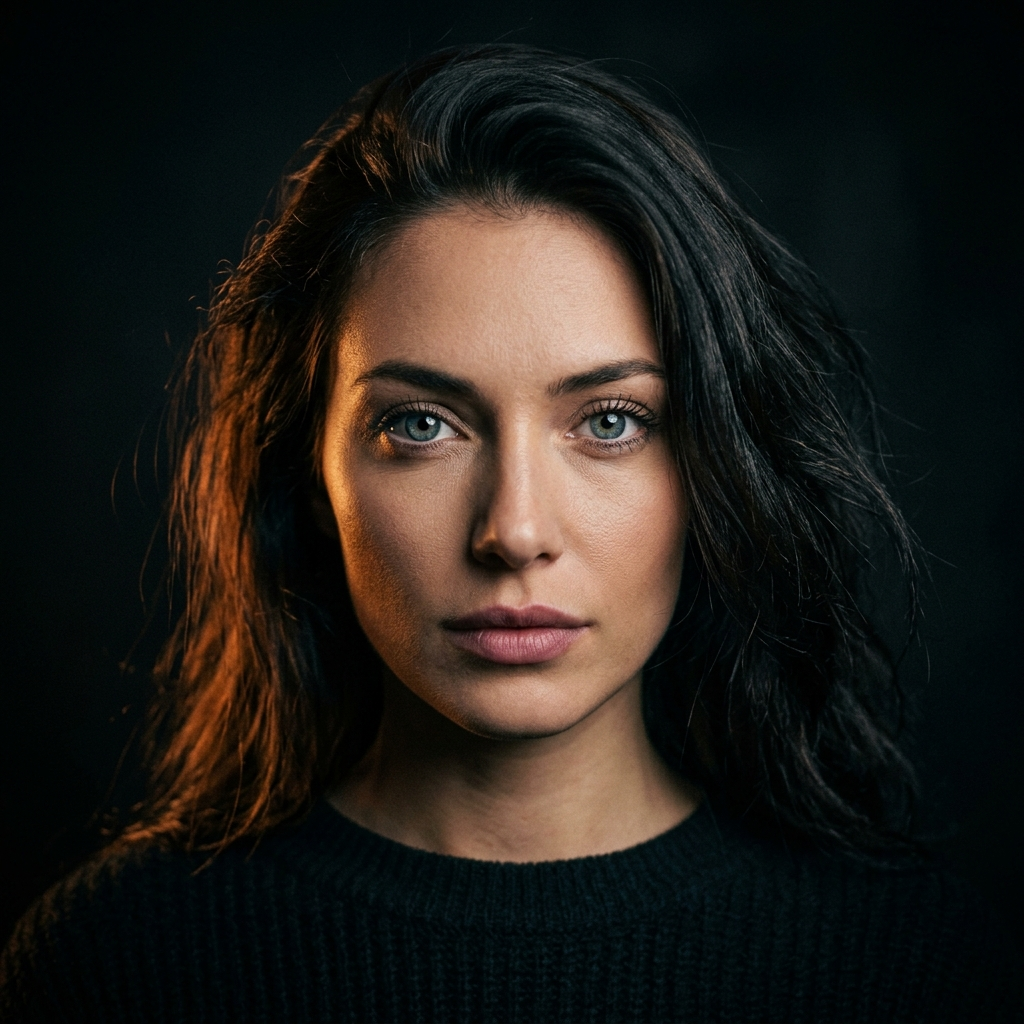
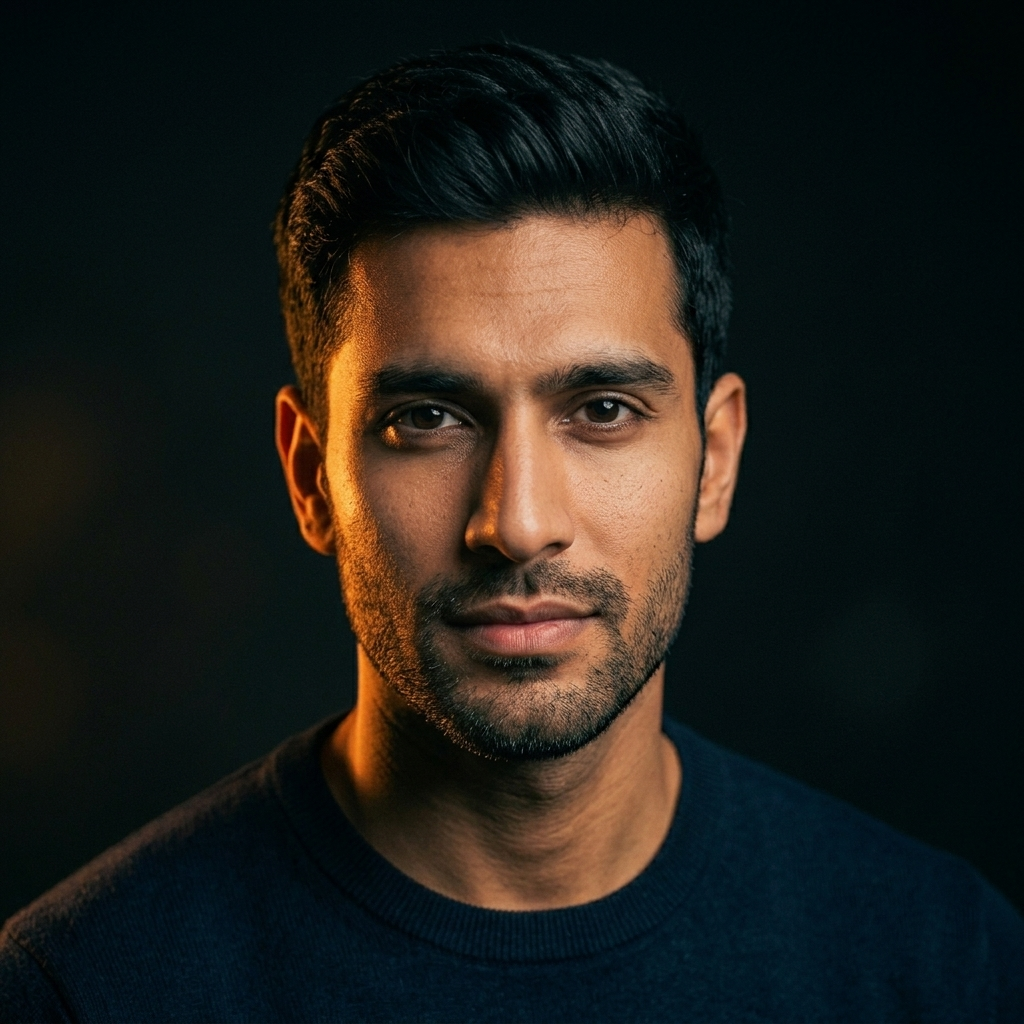
checkpoint: remove contact nav link and rename company to Nexus Labs

diff --git a/index.html b/index.html
@@ -151,7 +151,6 @@
         <a class="text-text-muted hover:text-primary transition-all duration-300" href="#work">Work</a>
         <a class="text-text-muted hover:text-primary transition-all duration-300" href="#experience">Experience</a>
         <a class="text-text-muted hover:text-primary transition-all duration-300" href="#testimonials">Testimonials</a>
-        <a class="text-text-muted hover:text-primary transition-all duration-300" href="#contact">Contact</a>
       </div>
 
       <button
@@ -224,7 +223,7 @@
       </h2>
       <p class="font-body-lg text-body-lg text-text-muted max-w-xl leading-relaxed mt-4 hero-anim"
         style="opacity:0;transform:translateY(30px);transition-delay:300ms;">
-        Founder of <strong class="text-on-surface font-semibold">Malik Nexus</strong>. Architecting high-performance digital infrastructure.
+        Founder of <strong class="text-on-surface font-semibold">Nexus Labs</strong>. Architecting high-performance digital infrastructure.
       </p>
       <div class="flex gap-4 mt-4 hero-anim" style="opacity:0;transform:translateY(30px);transition-delay:400ms;">
         <a href="#contact"
